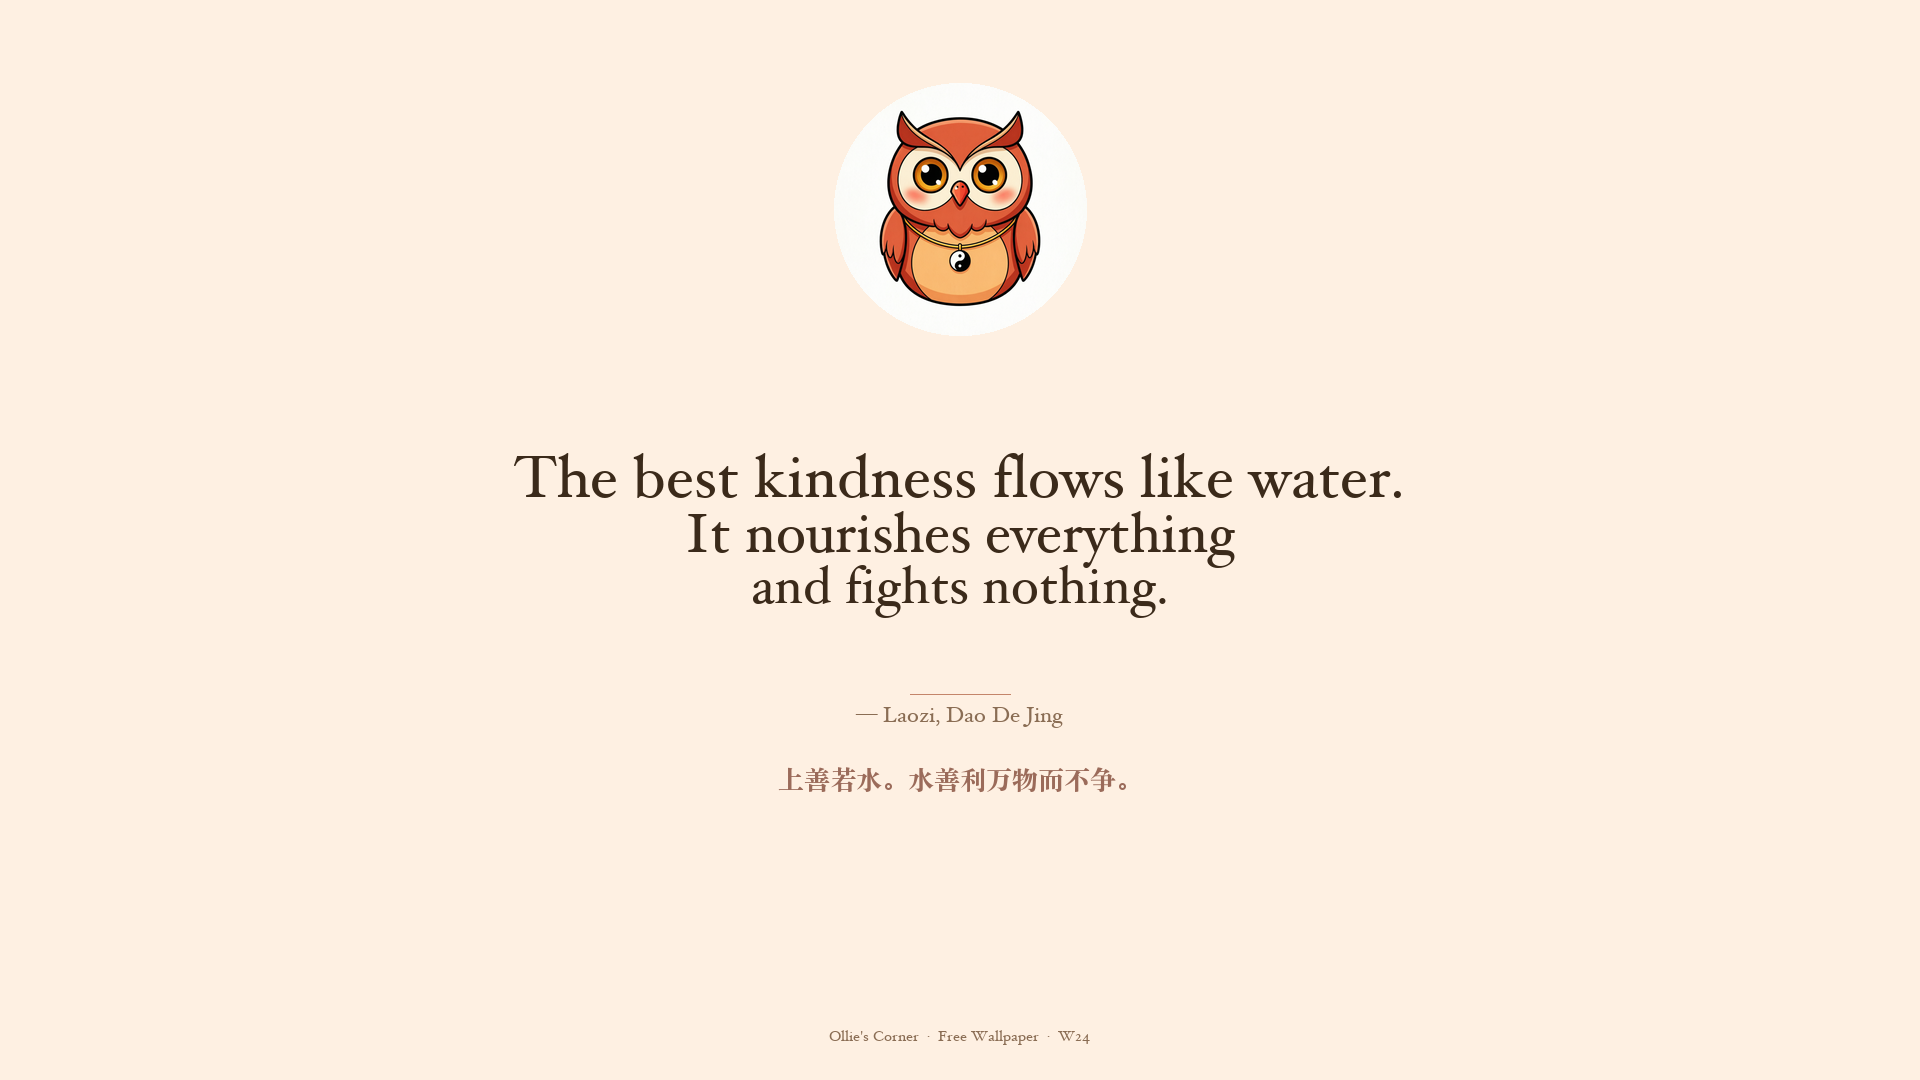
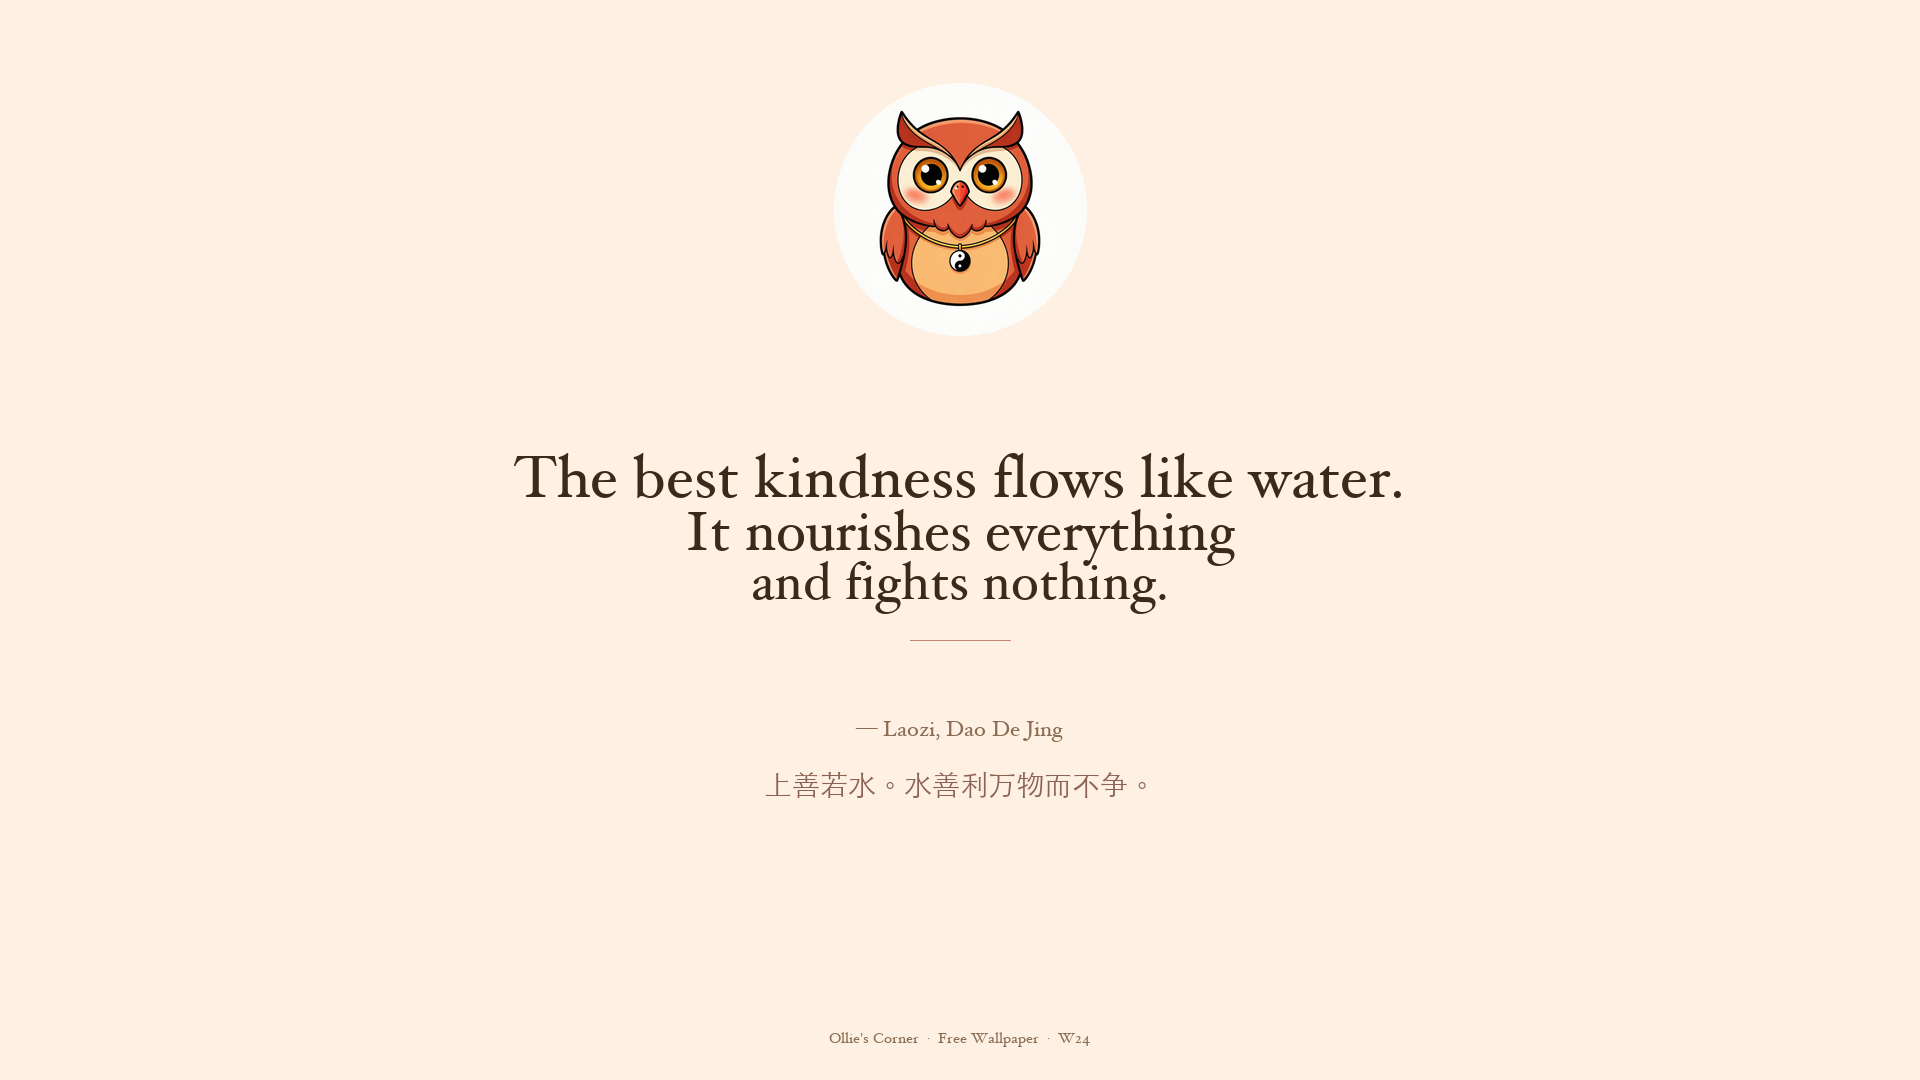
fix(ollies-corner): v3.1 — fix phone CN text + CDN cache bust
- Switched CN font from Songti to STHeiti Light (reliable CJK rendering on all sizes)
- Both desktop and phone wallpapers now render Chinese correctly
- Added ?v=3 cache-busting to bypass Cloudflare CDN
- Verified: 上善若水 renders on both desktop and phone

Changed region(s): [[0.375, 0.4889, 0.6562, 0.5806], [0.4062, 0.6417, 0.5938, 0.7333], [0.4375, 0.9472, 0.5625, 0.9778]]

diff --git a/ollies-corner.html b/ollies-corner.html
@@ -15,7 +15,7 @@
 <meta name="description" content="Free Ollie wallpapers updated weekly, each with a classical Chinese zen quote translated for the modern mind. Bring a little warmth and wisdom to your screen.">
 <meta property="og:title" content="Ollie's Corner — Weekly Wallpapers & Zen Quotes | TCM Way">
 <meta property="og:description" content="Each week, a new wallpaper with a hand-picked zen quote from Chinese classical wisdom — translated to make you smile, breathe, and maybe learn something.">
-<meta property="og:image" content="https://tcmway.net/images/ollie-corner/wallpapers/ollie-desktop-w24.png">
+<meta property="og:image" content="https://tcmway.net/images/ollie-corner/wallpapers/ollie-desktop-w24.png?v=3">
 <meta property="og:url" content="https://tcmway.net/ollies-corner.html">
 <meta property="og:type" content="website">
 <meta property="og:site_name" content="TCM Way">
@@ -219,19 +219,19 @@
 
 <div class="wallpaper-grid">
   <div class="wallpaper-card">
-    <img src="images/ollie-corner/wallpapers/ollie-desktop-w24.png" alt="Ollie desktop wallpaper — The best kindness flows like water" loading="lazy">
+    <img src="images/ollie-corner/wallpapers/ollie-desktop-w24.png?v=3" alt="Ollie desktop wallpaper — The best kindness flows like water" loading="lazy">
     <div class="info">
       <div class="label">Desktop</div>
       <div class="dim">1920 × 1080</div>
-      <a href="images/ollie-corner/wallpapers/ollie-desktop-w24.png" download class="btn">Download</a>
+      <a href="images/ollie-corner/wallpapers/ollie-desktop-w24.png?v=3" download class="btn">Download</a>
     </div>
   </div>
   <div class="wallpaper-card">
-    <img src="images/ollie-corner/wallpapers/ollie-phone-w24.png" alt="Ollie phone wallpaper — The best kindness flows like water" loading="lazy">
+    <img src="images/ollie-corner/wallpapers/ollie-phone-w24.png?v=3" alt="Ollie phone wallpaper — The best kindness flows like water" loading="lazy">
     <div class="info">
       <div class="label">Phone</div>
       <div class="dim">1080 × 1920</div>
-      <a href="images/ollie-corner/wallpapers/ollie-phone-w24.png" download class="btn">Download</a>
+      <a href="images/ollie-corner/wallpapers/ollie-phone-w24.png?v=3" download class="btn">Download</a>
     </div>
   </div>
 </div>
